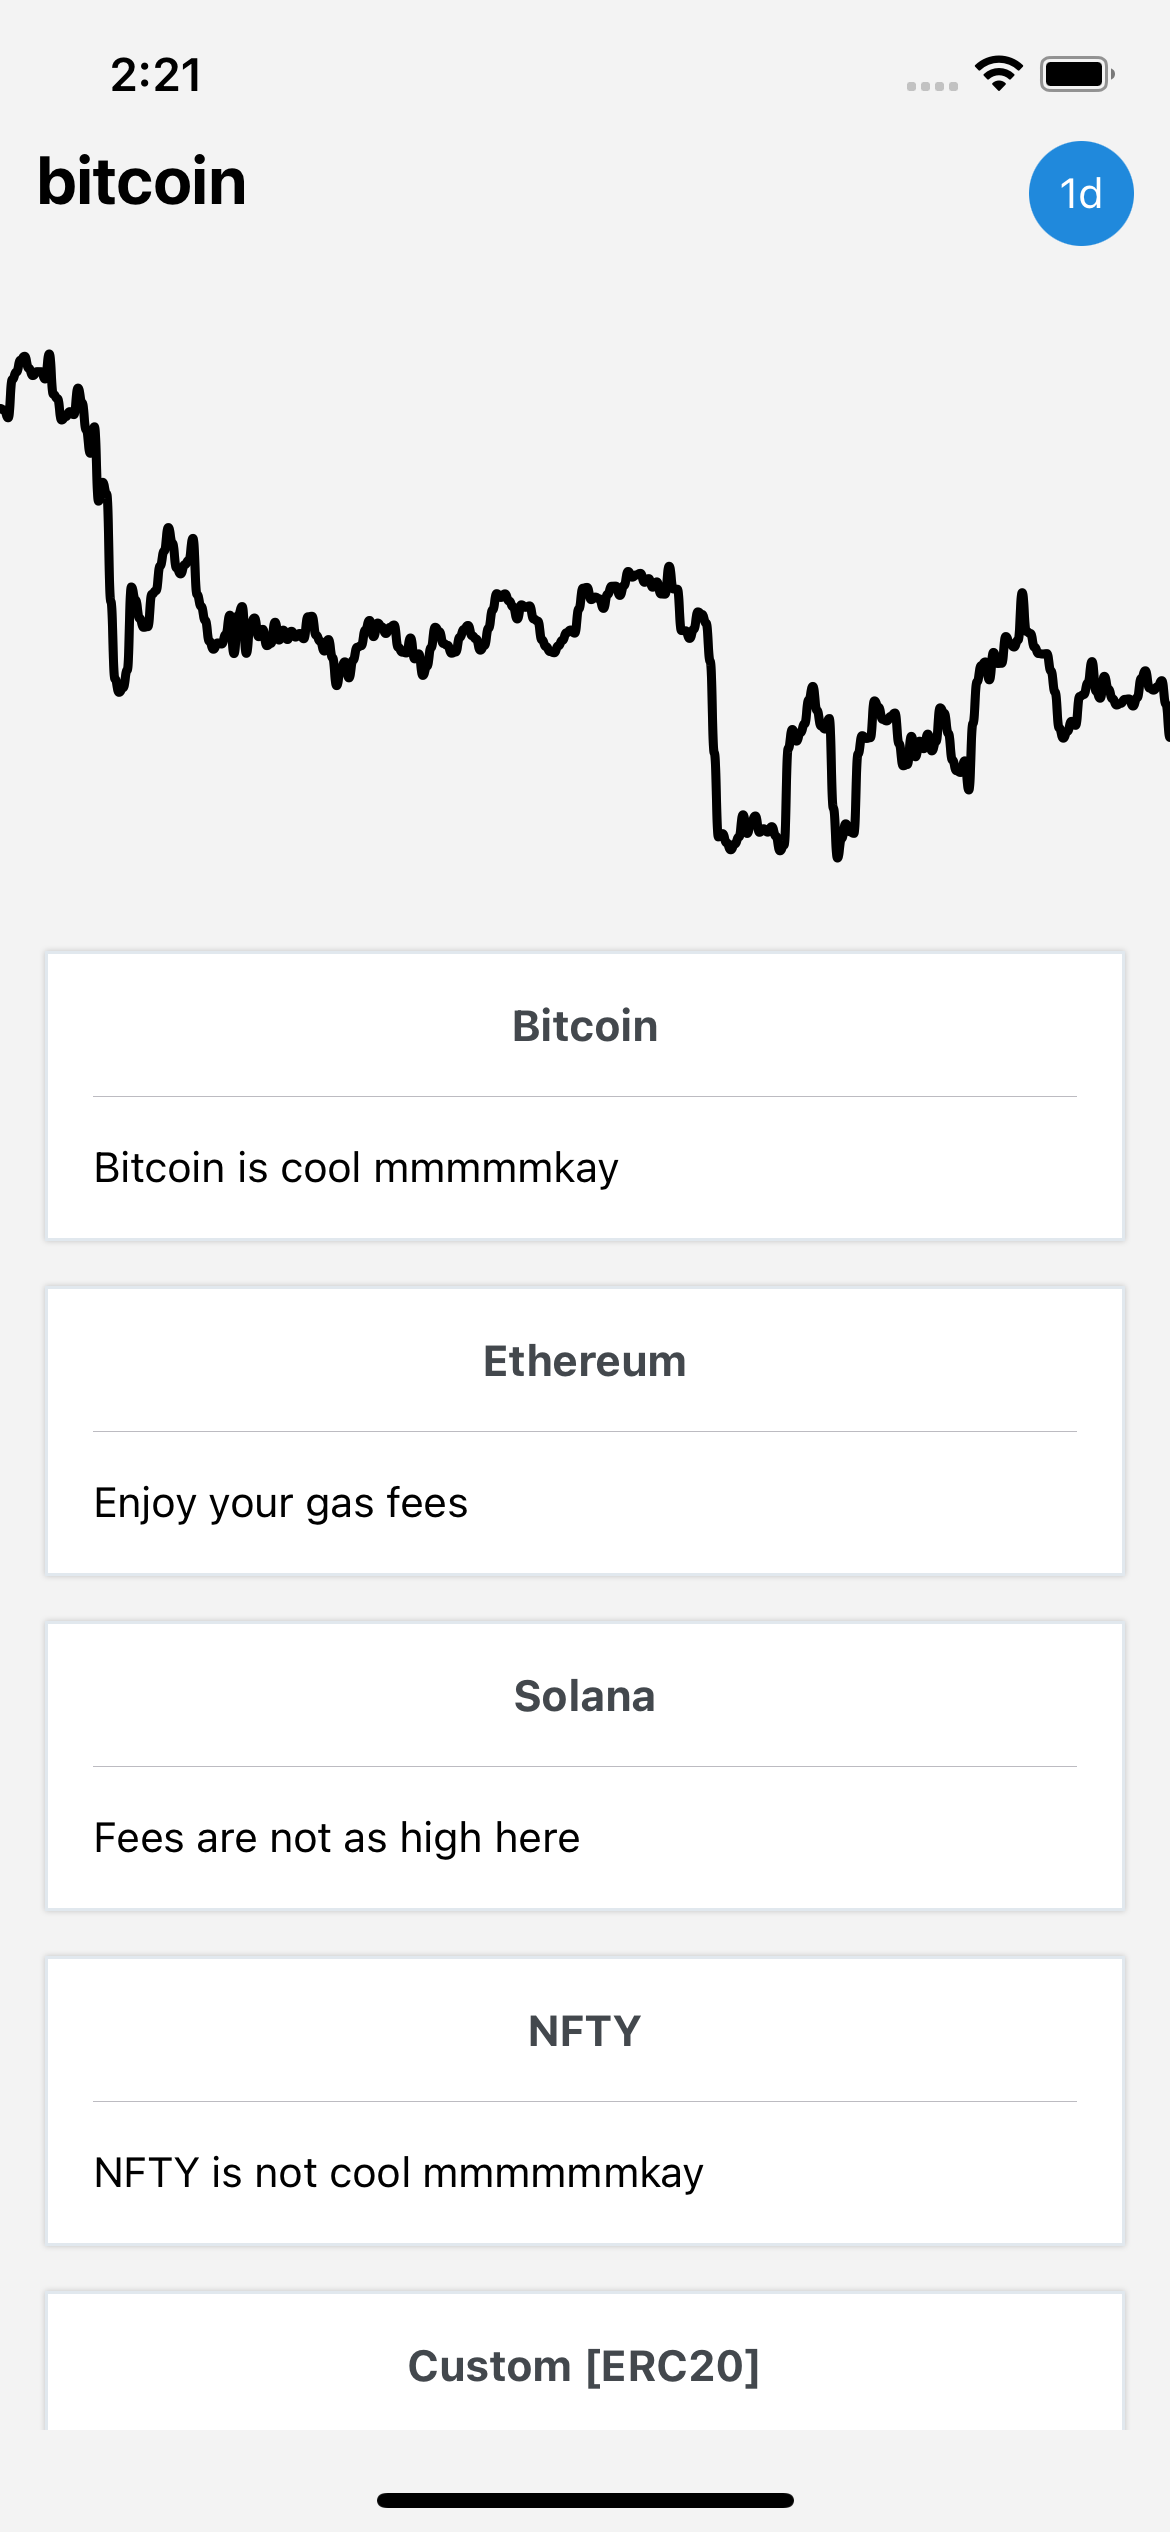
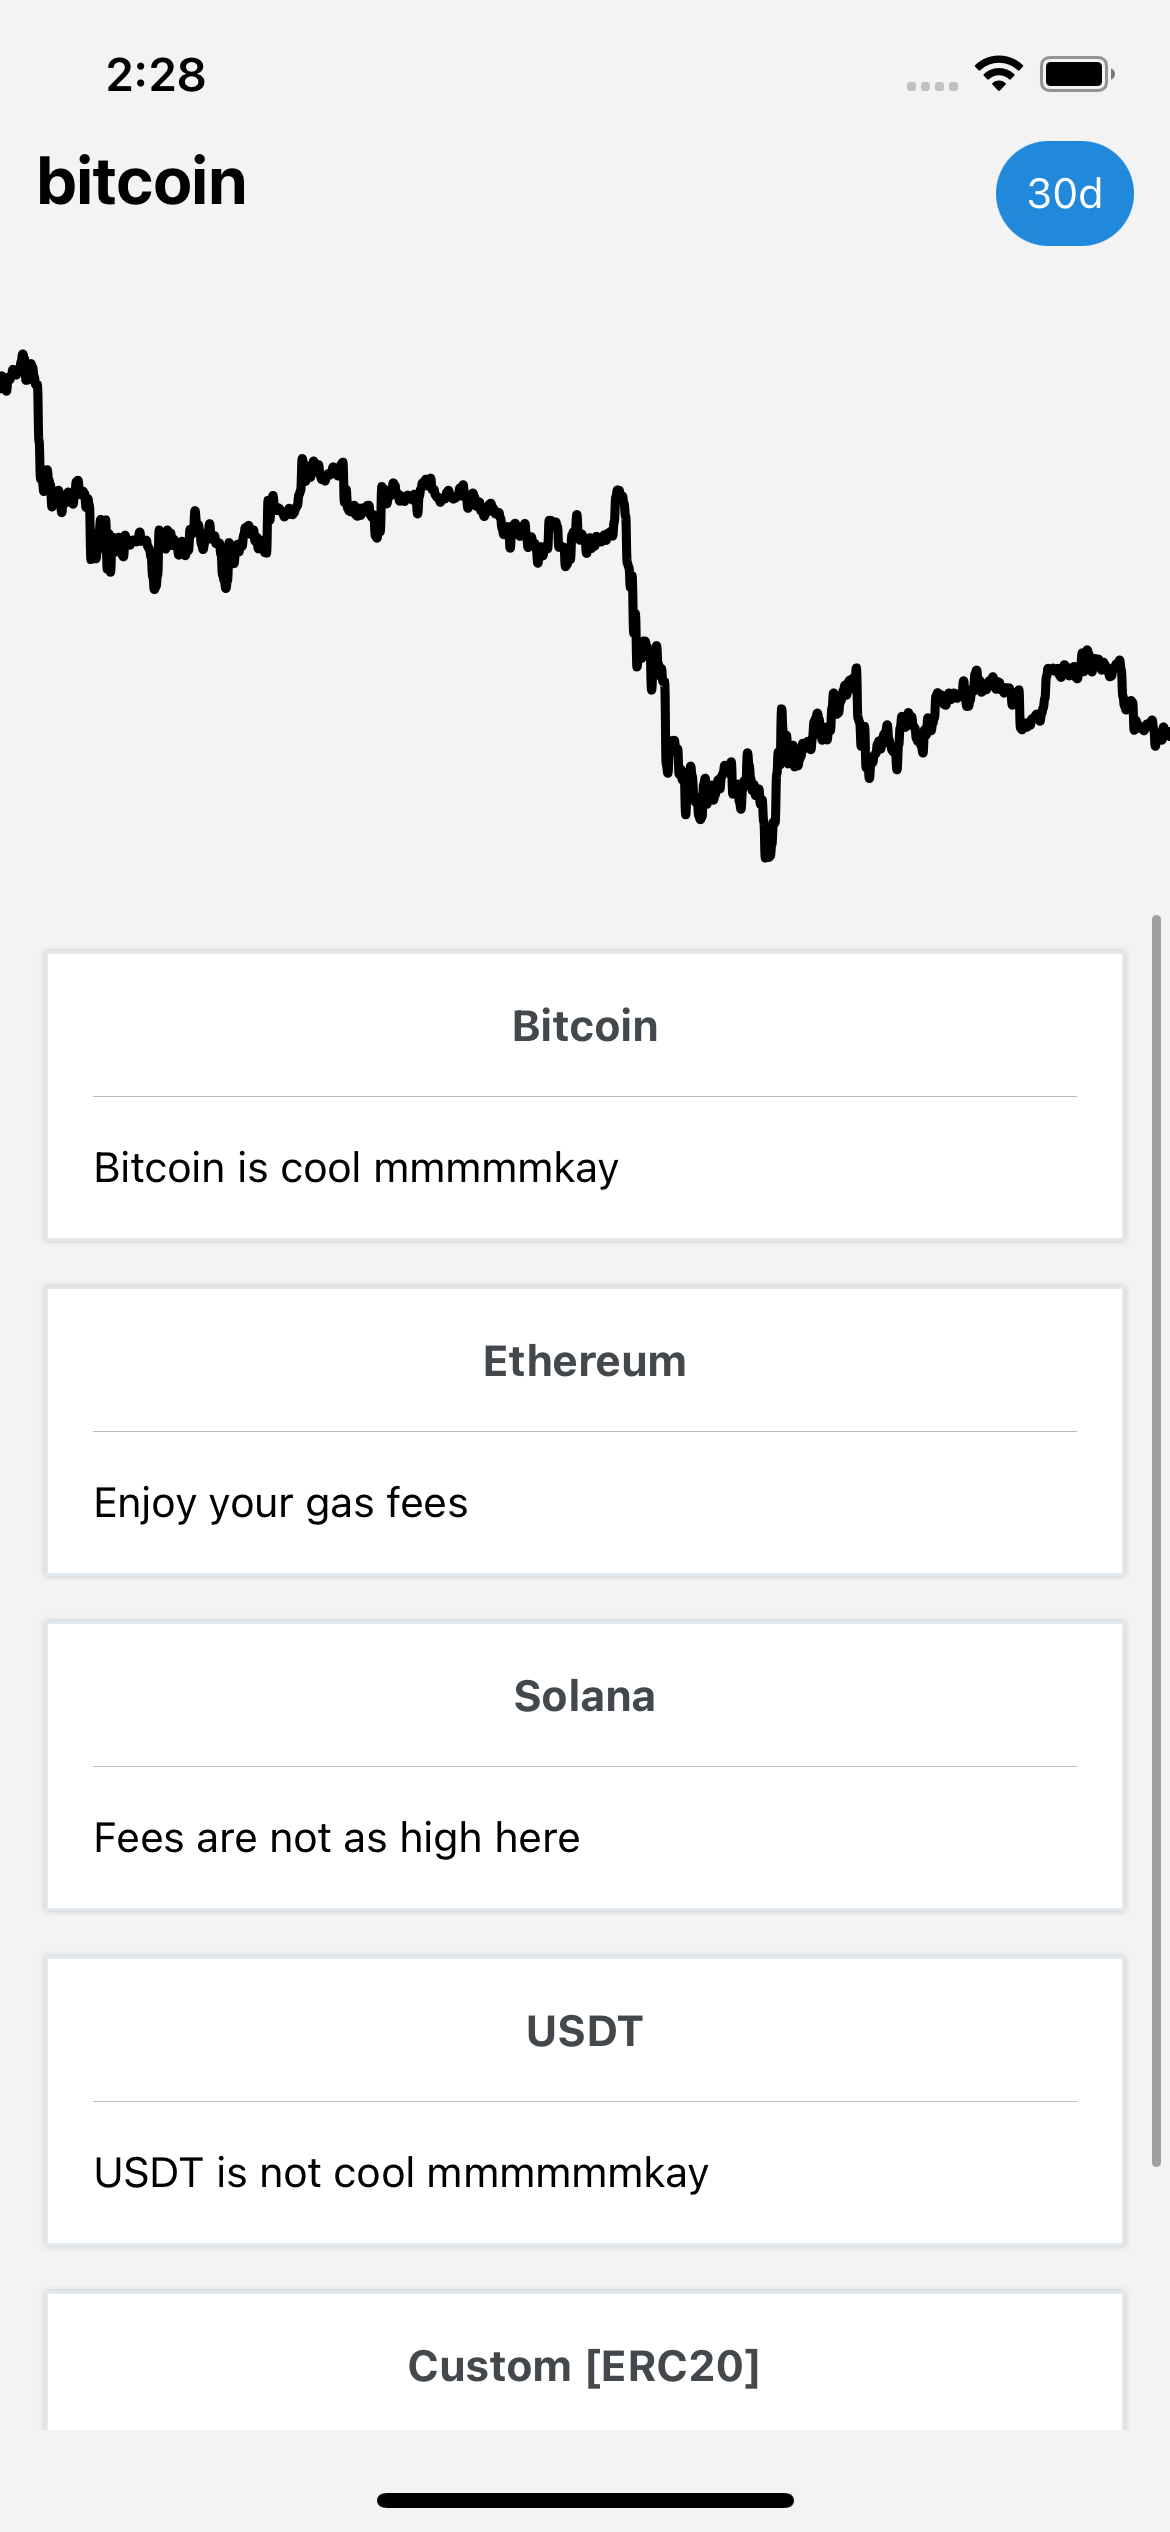
edited readme

diff --git a/screens/index.tsx b/screens/index.tsx
@@ -22,7 +22,7 @@ const getChart = async ({ queryKey }: any) => {
   let q: string = queryKey[1]; // coin
   let q2: string = queryKey[2]; // timerange
   let url = '';
-  
+
   // ETH Contract Address
   if (q.startsWith('0x')) {
     url = `https://api.coingecko.com/api/v3/coins/ethereum/contract/${q}/market_chart?vs_currency=usd&days=${q2}`;
@@ -62,8 +62,8 @@ const MainScreen = () => {
     setQuery('ethereum');
   };
 
-  const onNFTYPress = () => {
-    setQuery('0xE1D7C7a4596B038CEd2A84bF65B8647271C53208');
+  const onUSDTPress = () => {
+    setQuery('0xdac17f958d2ee523a2206206994597c13d831ec7');
   };
 
   const onSOLPress = () => {
@@ -118,9 +118,9 @@ const MainScreen = () => {
           onPress={onSOLPress}
         />
         <OptionCard
-          title="NFTY"
-          body="NFTY is not cool mmmmmmkay"
-          onPress={onNFTYPress}
+          title="USDT"
+          body="USDT is not cool mmmmmmkay"
+          onPress={onUSDTPress}
         />
         <OptionCard title="Custom [ERC20]" setQuery={setQuery} custom />
       </ScrollView>

diff --git a/README.md b/README.md
@@ -6,6 +6,7 @@ This app is made to be simple. Built with
 - react-query
 - react-native-wagmi-charts
 - react-native-elements
+- Coingecko
 
 ## Preview
 
